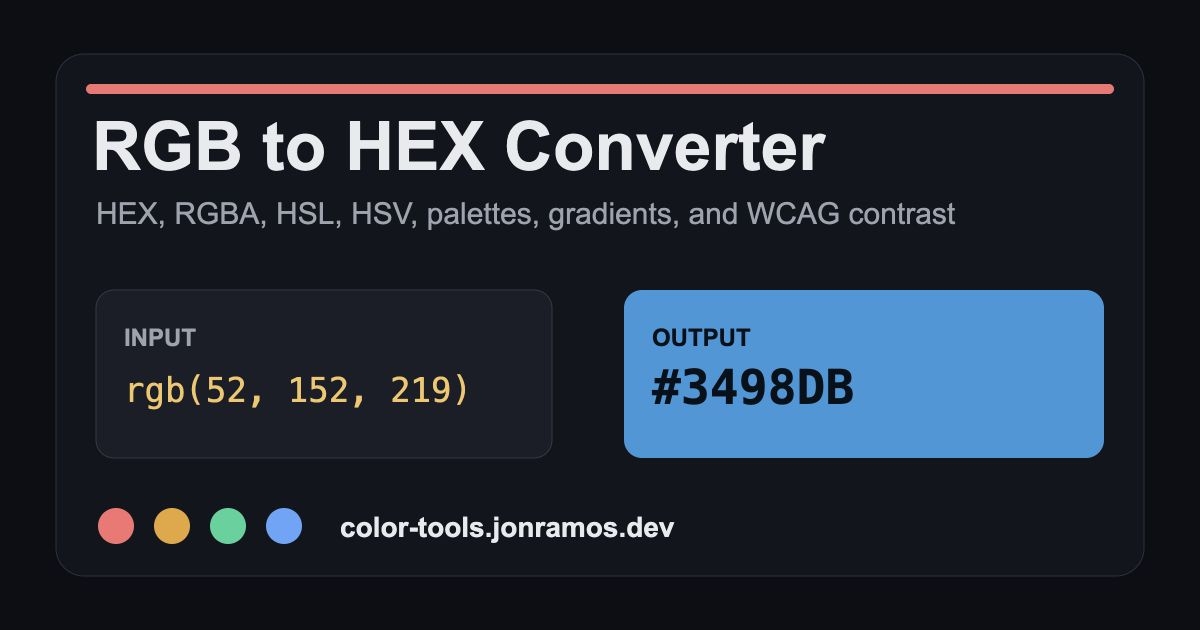
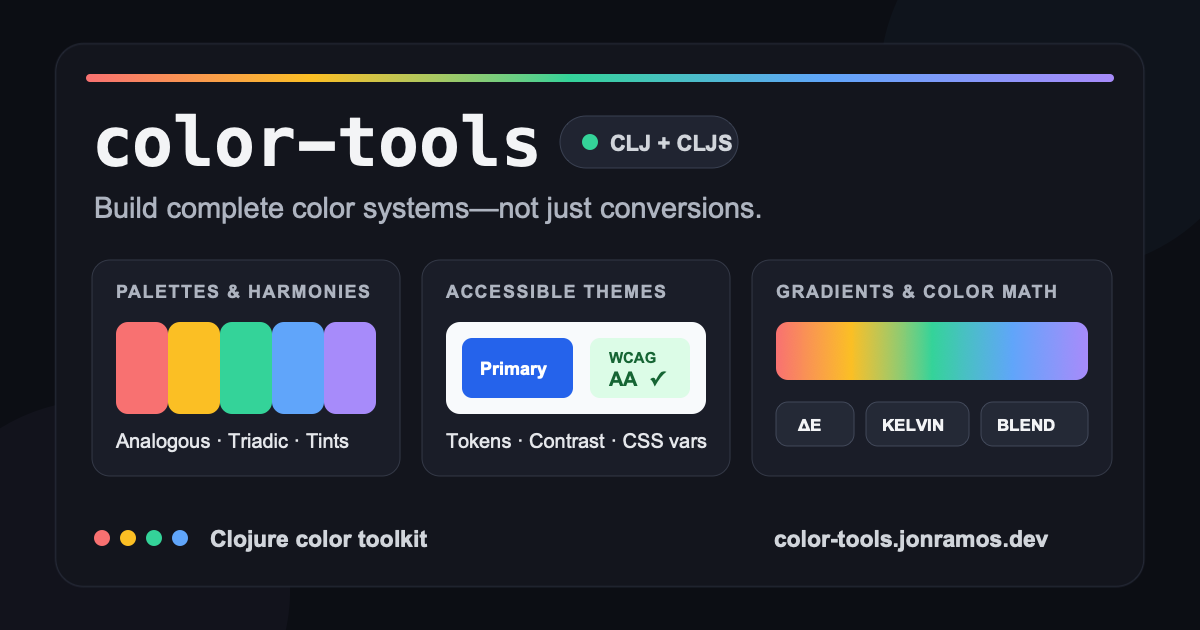
Broaden color-tools social preview

diff --git a/demo/public/index.html b/demo/public/index.html
@@ -6,11 +6,11 @@
 
     <!-- SEO Meta Tags -->
     <title>
-      RGB to HEX Converter | HEX, HSL, HSV Color Tools
+      Color Tools for Clojure &amp; ClojureScript | Palettes, Themes, WCAG
     </title>
     <meta
       name="description"
-      content="Free CSS color converter for RGB to HEX, HEX to RGB, HSL, HSV, RGBA, gradients, palettes, color harmonies, Kelvin colors, and WCAG contrast checks."
+      content="A cross-platform Clojure and ClojureScript color toolkit for palettes, accessible themes, gradients, color manipulation, conversion, and WCAG contrast."
     />
     <meta
       name="keywords"
@@ -35,11 +35,11 @@
     <meta property="og:url" content="https://color-tools.jonramos.dev/" />
     <meta
       property="og:title"
-      content="RGB to HEX Converter | Color Tools"
+      content="color-tools | Clojure &amp; ClojureScript Color Toolkit"
     />
     <meta
       property="og:description"
-      content="Convert RGB, HEX, RGBA, HSL, and HSV colors instantly, then generate palettes, gradients, harmonies, and accessible WCAG contrast pairs."
+      content="Build palettes, accessible themes, gradients, harmonies, and color transformations with a cross-platform Clojure and ClojureScript library."
     />
     <meta
       property="og:image"
@@ -50,7 +50,7 @@
     <meta property="og:image:height" content="630" />
     <meta
       property="og:image:alt"
-      content="Color Tools preview showing RGB to HEX, HSL, HSV, palettes, gradients, and contrast checks."
+      content="color-tools preview showing palettes, accessible themes, gradients, and color math for Clojure and ClojureScript."
     />
     <meta property="og:site_name" content="Color Tools" />
     <meta property="og:locale" content="en_US" />
@@ -59,11 +59,11 @@
     <meta name="twitter:card" content="summary_large_image" />
     <meta
       name="twitter:title"
-      content="RGB to HEX Converter | Color Tools"
+      content="color-tools | Clojure &amp; ClojureScript Color Toolkit"
     />
     <meta
       name="twitter:description"
-      content="Convert RGB, HEX, RGBA, HSL, and HSV colors instantly, then generate palettes, gradients, harmonies, and accessible WCAG contrast pairs."
+      content="Build palettes, accessible themes, gradients, harmonies, and color transformations with a cross-platform Clojure and ClojureScript library."
     />
     <meta
       name="twitter:image"
@@ -71,7 +71,7 @@
     />
     <meta
       name="twitter:image:alt"
-      content="Color Tools preview showing RGB to HEX, HSL, HSV, palettes, gradients, and contrast checks."
+      content="color-tools preview showing palettes, accessible themes, gradients, and color math for Clojure and ClojureScript."
     />
 
     <!-- Preconnect for fonts -->